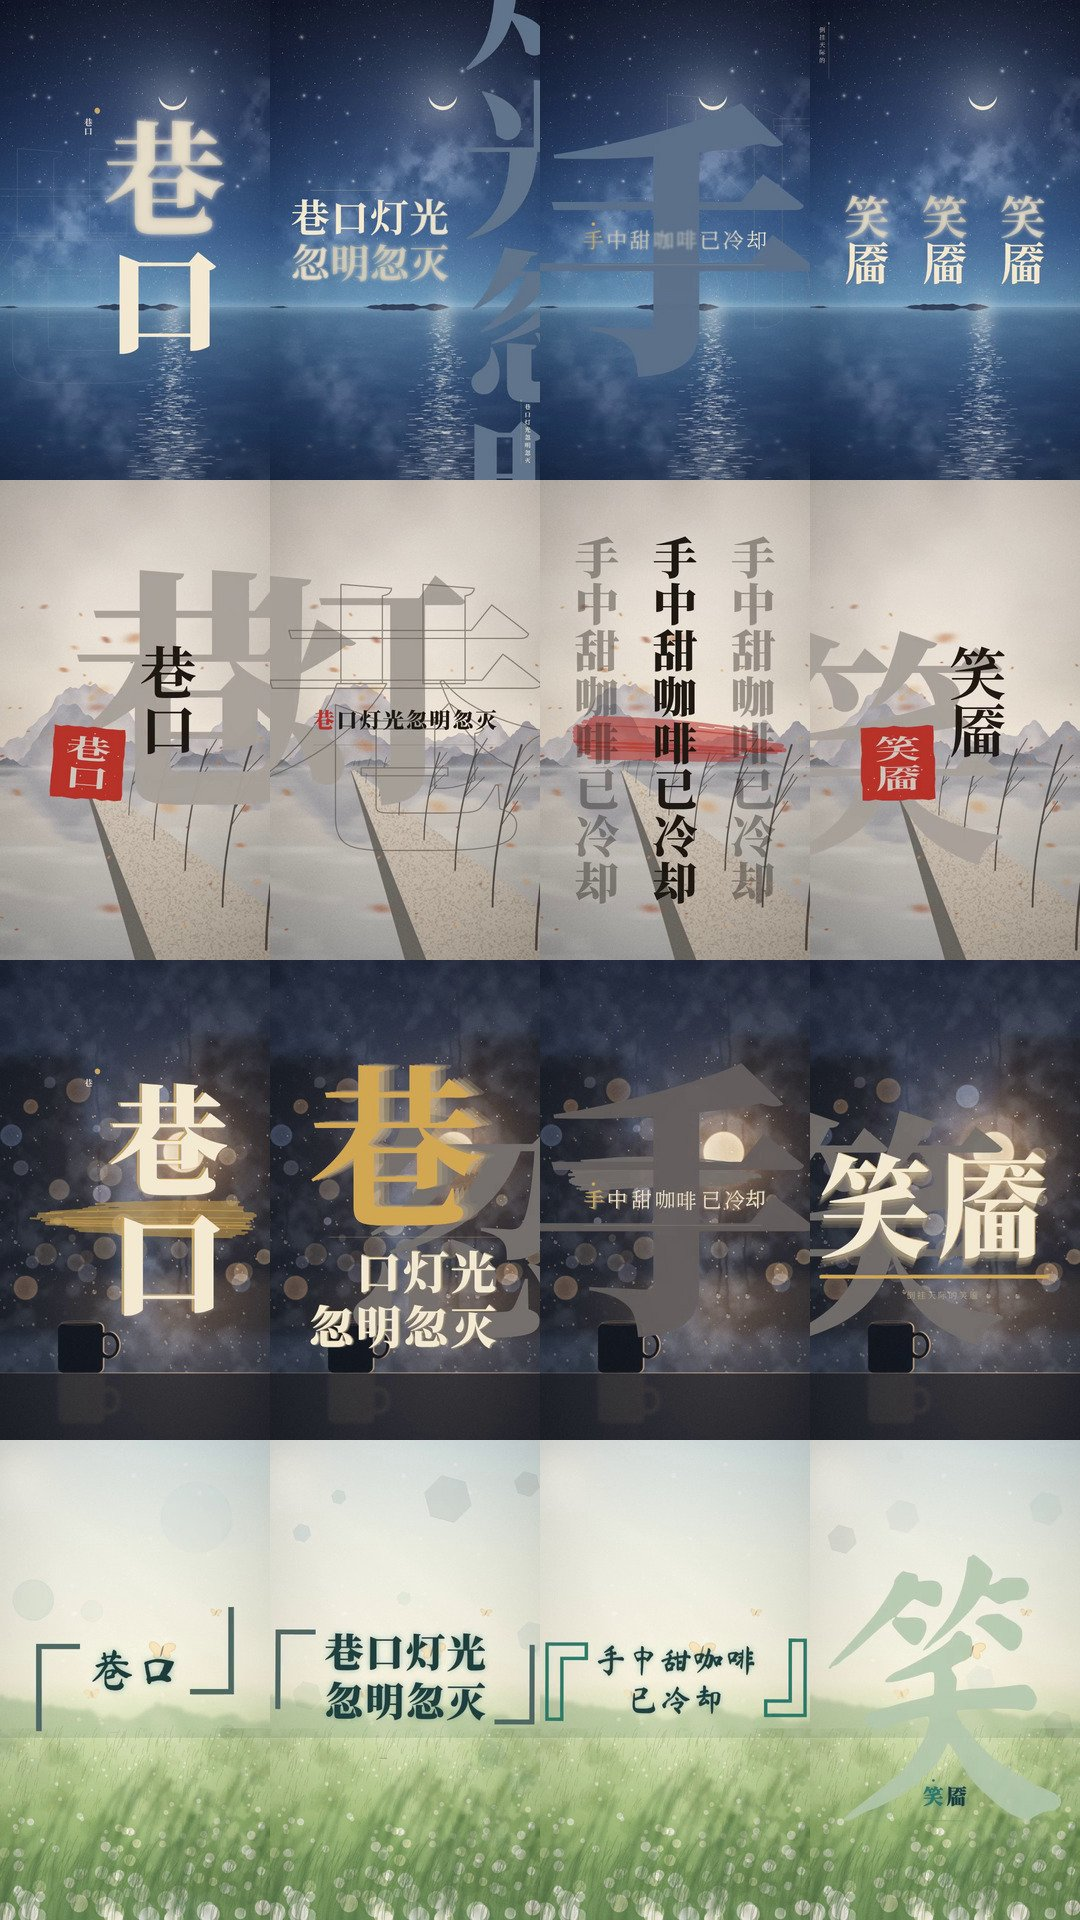
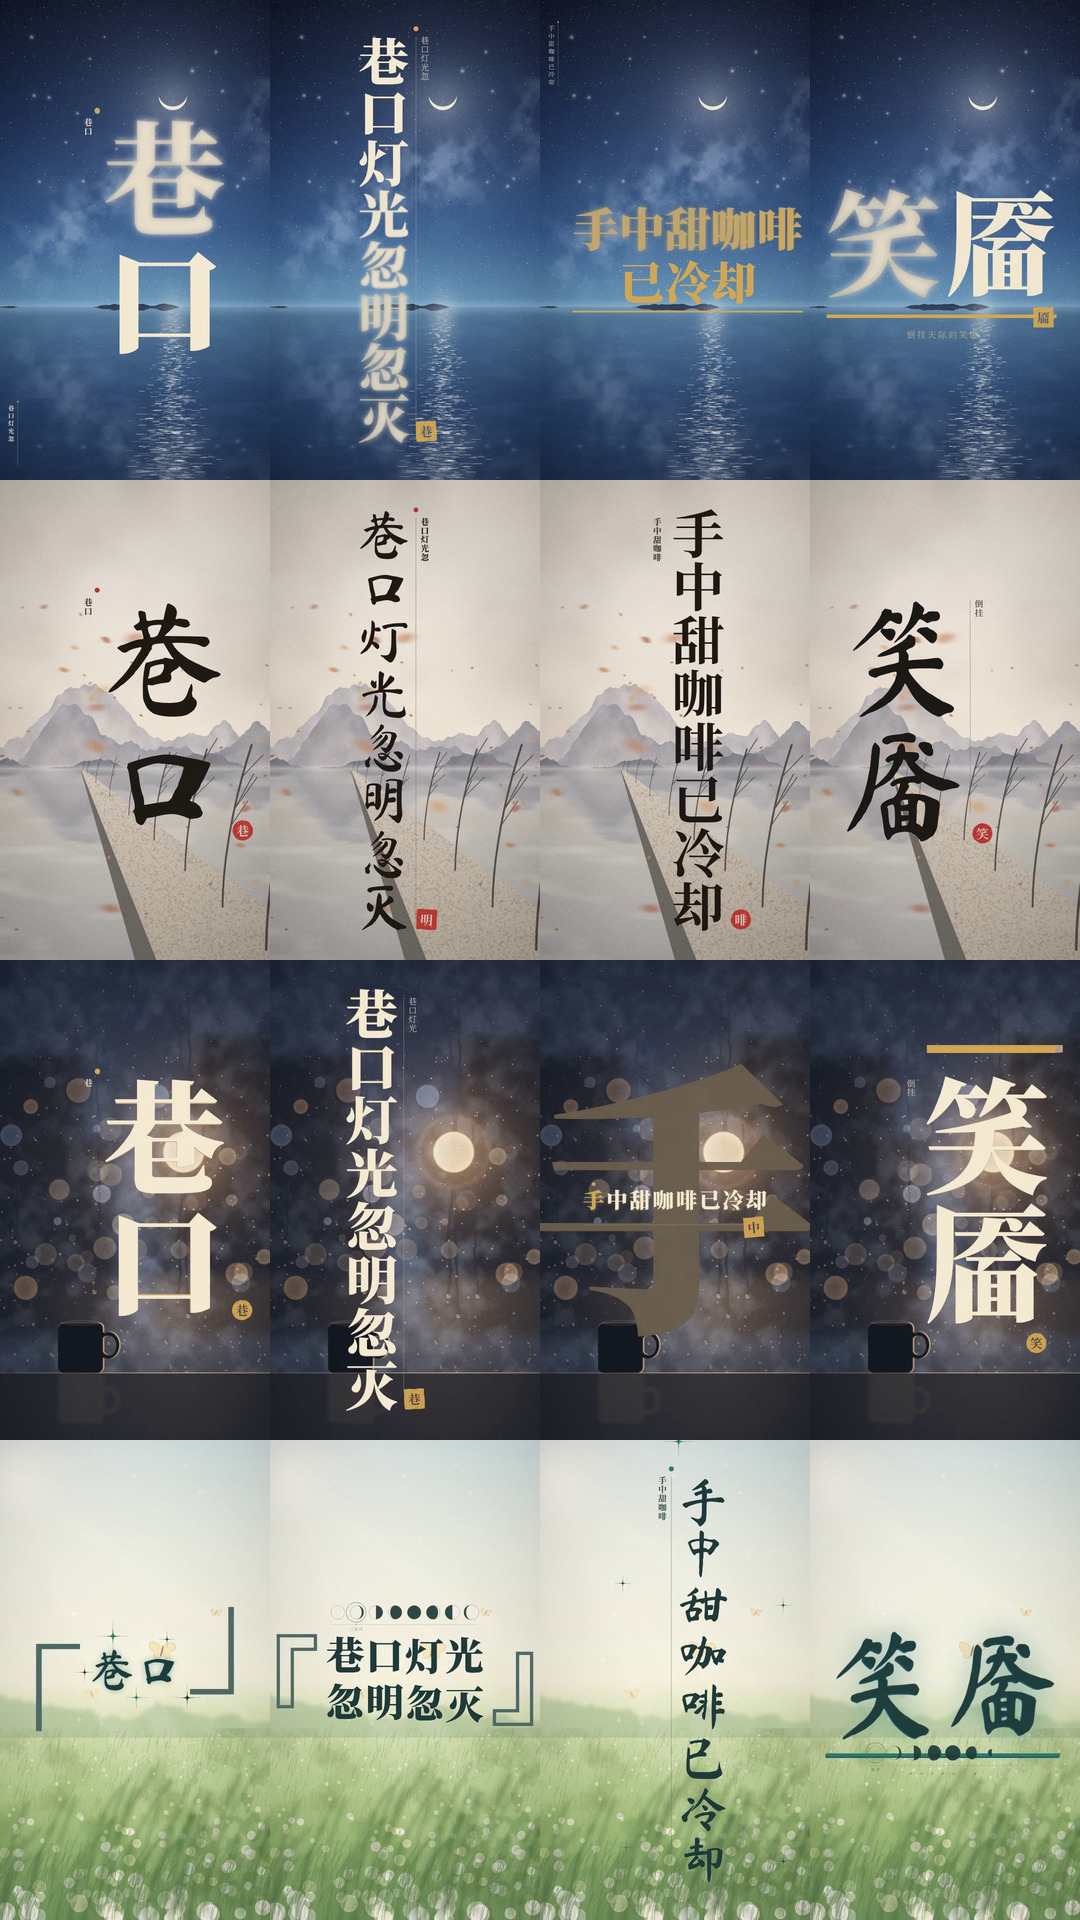
JIZURA: 去掉显得混乱的版式和部件
- 去掉巨字裁切出画、关键字拆行、同一句重复多遍（vcols / zoomRepeat）、
  描边回声 / 多重阴影、挂轴、横穿文字的笔刷、大字水印、hanko
- 叠字国潮只保留「一个关键字放大做淡背景 + 整句」这一种叠字
- 故障强度默认 0；节奏卡点预设降低密度和装饰

Claude-Session: https://claude.ai/code/session_01AB9LkBndKdV4qLpLchswxw

diff --git a/chatcut_studio/jizura.py b/chatcut_studio/jizura.py
@@ -64,47 +64,46 @@ THEMES: dict[str, dict] = {
         "koma": 0,
         "fx": {"chroma": 0.05, "texture": 0.3},
         "allow": {
-            "layout": ["center", "columnsBig", "kanjiFocus", "halfVertical", "vcols", "tyBaseline", "quote",
-                       "tyCropGiant"],
-            "treat": ["none", "softShadow", "emphasisDots", "fadeChars", "echoOutline"],
+            "layout": ["center", "columnsBig", "halfVertical", "tyBaseline", "quote"],
+            "treat": ["none", "softShadow", "emphasisDots", "fadeChars"],
             "enter": ["fadeStagger", "blurStagger", "trackIn", "riseMask", "blur", "glint"],
             "hold": ["still", "drift", "breathe", "zoomSlow", "focusRack"],
             "exit": ["blur", "drift", "blurOutStagger", "dissolve", "trackOutWide", "riseOut"],
-            "decor": ["seal", "verticalStrip", "watermarkKanji"],
+            "decor": ["seal", "verticalStrip"],
             "cam": ["push", "dollyIn", "focusIn", "pullOut"],
             "trans": ["pushSlide", "uncover"],
         },
     },
     "水墨书法": {
-        "desc": "毛笔字竖排、墨迹晕开与笔画书写入场、印章落款，水墨意境",
+        "desc": "毛笔字、墨迹晕开与笔画书写入场、印章落款，水墨意境",
         "palettes": ["cn_ink", "cn_qinglv"],
         "koma": 0,
         "fx": {"chroma": 0.0, "texture": 0.4},
         "allow": {
-            "layout": ["vcols", "kanjiFocus", "columnsBig", "center", "halfVertical", "kakejiku", "hanko"],
+            "layout": ["columnsBig", "center", "halfVertical"],
             "treat": ["none", "softShadow", "fadeChars"],
             "enter": ["inkBleed", "brushReveal", "strokeOrder", "inkDrop", "strokeDraw", "blur", "fadeStagger"],
             "hold": ["still", "drift", "breathe", "zoomSlow"],
             "exit": ["dissolve", "drift", "blurOutStagger", "undraw", "blur"],
-            "decor": ["brushStroke", "seal", "watermarkKanji"],
+            "decor": ["seal"],
             "cam": ["push", "dollyIn", "pullOut", "driftDiag"],
             "trans": ["inkBlob", "pushSlide"],
         },
     },
     "叠字国潮": {
-        "desc": "宋体巨字、残影、描边回声做背景，前景字压在上面；鎏金 / 胭脂 / 朱砂配色，新中式海报感",
+        "desc": "一个关键字放大做淡淡的背景，整句压在上面；鎏金 / 胭脂 / 朱砂配色，新中式海报感",
         "palettes": ["cn_gold", "cn_rouge", "cn_ink"],
         "koma": 12,
         "fx": {"chroma": 0.2, "texture": 0.3},
         "allow": {
-            "layout": ["tyCropGiant", "kanjiFocus", "columnsBig", "tyKeySplit", "zoomRepeat", "center"],
-            "treat": ["echoOutline", "shadowStack", "doubleOutline", "outlineOffset", "longShadow", "none"],
-            "enter": ["zoomOut", "echoIn", "trackIn", "riseMask", "stretch", "slideL", "slideR", "stamp"],
-            "hold": ["still", "drift", "zoomSlow", "echoTrail", "breathe"],
-            "exit": ["cut", "echoOut", "trackOutWide", "zoomThrough", "zoomFar", "blur"],
-            "decor": ["seal", "watermarkKanji", "brushStroke"],
-            "cam": ["push", "pullOut", "dollyIn", "stepZoom", "beatPunch"],
-            "trans": ["pushSlide", "zoomThrough"],
+            "layout": ["kanjiFocus", "columnsBig", "center"],
+            "treat": ["none", "softShadow"],
+            "enter": ["zoomOut", "trackIn", "riseMask", "slideL", "slideR"],
+            "hold": ["still", "drift", "zoomSlow", "breathe"],
+            "exit": ["cut", "trackOutWide", "zoomFar", "blur"],
+            "decor": ["seal"],
+            "cam": ["push", "pullOut", "dollyIn"],
+            "trans": ["pushSlide"],
         },
     },
     "清新诗意": {
@@ -113,12 +112,12 @@ THEMES: dict[str, dict] = {
         "koma": 0,
         "fx": {"chroma": 0.05, "texture": 0.2},
         "allow": {
-            "layout": ["center", "vcols", "halfVertical", "quote", "columnsBig", "kanjiFocus"],
+            "layout": ["center", "halfVertical", "quote", "columnsBig"],
             "treat": ["none", "softShadow", "glow", "fadeChars"],
             "enter": ["blur", "fadeStagger", "blurStagger", "backlight", "glint", "riseMask", "trackIn"],
             "hold": ["still", "drift", "float", "breathe", "glowFlicker"],
             "exit": ["blur", "drift", "blurOutStagger", "dissolve", "hazeOut", "riseOut"],
-            "decor": ["petals", "fireflies", "starField", "moonPhases", "twinkle", "bokeh"],
+            "decor": ["petals", "fireflies", "moonPhases", "twinkle"],
             "cam": ["push", "floatNoise", "focusIn", "driftDiag"],
             "trans": ["irisOpen", "pushSlide", "uncover"],
         },

diff --git a/chatcut_studio/presets.py b/chatcut_studio/presets.py
@@ -66,7 +66,7 @@ PRESETS: dict[str, StyleProfile] = {
         pacing=Pacing(avg_shot_seconds=0.8, cut_on_beat=True, hook_seconds=2,
                       notes="主歌每拍一切，副歌半拍一切；高潮前留一个 1–2 秒的长镜头蓄力"),
         captions=Captions(engine="JIZURA 动态排版", font="得意黑", size="大",
-                          jizura=Jizura(theme="叠字国潮", seed=1, motion=0.85, glitch=0.15, decor=0.4, density=0.7,
+                          jizura=Jizura(theme="叠字国潮", seed=1, motion=0.75, glitch=0.0, decor=0.3, density=0.5,
                                         flash=True)),
         transitions=Transitions(style="硬切为主，重拍处用快速推拉或甩镜", duration_seconds=0.15),
         color_grade=ColorGrade(look="高对比、偏鲜艳", notes="所有素材统一色温"),

diff --git a/chatcut_studio/profile.py b/chatcut_studio/profile.py
@@ -25,7 +25,7 @@ class Jizura(BaseModel):
     palette: str = Field("auto", description="配色：auto 表示由主题按随机种子挑选，或 JIZURA 配色名如 ocean / mono / sunset")
     seed: int = Field(1, description="随机种子：同一个种子结果完全相同，换种子换一种编排")
     motion: float = Field(0.6, ge=0, le=1, description="动作幅度 0–1")
-    glitch: float = Field(0.15, ge=0, le=1, description="故障 / 色偏强度 0–1")
+    glitch: float = Field(0.0, ge=0, le=1, description="故障 / 色偏强度 0–1")
     decor: float = Field(0.3, ge=0, le=1, description="装饰元素多少 0–1")
     density: float = Field(0.5, ge=0, le=1, description="分镜细碎程度 0–1：越大一句歌词切成越多镜头")
     flash: bool = Field(False, description="重拍闪白")

diff --git a/chatcut_studio/README.md b/chatcut_studio/README.md
@@ -53,7 +53,7 @@ python3 -m chatcut_studio.fake_chatcut              # 本地假 ChatCut（http:/
 |---|---|
 | 服务器端渲染 | 无头 Chromium 里逐帧调用 JIZURA 的 `Renderer.frame()` 画透明歌词层，ffmpeg 叠到我们的背景图上、合上音频；或直接出透明 .mov 给 ChatCut。一拍两（每秒 12 张）的主题只渲染不重复的画面，由 ffmpeg 补帧 |
 | 中文分镜 | JIZURA 按日文规则切分，会把中文拆在词中间（「笑｜靥」「咖｜啡」）。改为按词切：连续单字两两成词、「与／和」连接左右、助词语气词向前黏、落单的字向后黏，关键词不拆；多行换行和版式内部拆词也按词来。拿不准的句子可以在歌词里用 `/` 手动断开 |
-| 四套中文主题 | 从部件库挑出白名单：**宋韵留白**（宋体大字、竖排、留白、印章）、**水墨书法**（书法字、墨晕 / 笔顺入场、笔触和印章、挂轴版式）、**叠字国潮**（巨字裁切做背景、描边回声、新中式金色）、**清新诗意**（楷体、「」引号、萤火、月相、花瓣）。去掉了恐怖部件、故障风、霓虹、日文装饰、HUD 和「No.04」这类编号 |
+| 四套中文主题 | 从部件库挑出白名单：**宋韵留白**（宋体大字、竖排、留白、印章）、**水墨书法**（书法字、墨晕 / 笔顺入场、印章）、**叠字国潮**（一个关键字放大做淡背景，整句压在上面，新中式金色）、**清新诗意**（楷体、「」引号、萤火、花瓣）。只保留干净的版式：一屏一句、一个视觉焦点。去掉了恐怖部件、故障风、霓虹、日文装饰、HUD、「No.04」这类编号，以及显得混乱的部件：巨字裁切出画、关键字拆行、同一句重复多遍（vcols / zoomRepeat）、描边回声 / 多重阴影、挂轴、横穿文字的笔刷、大字水印 |
 | 中文审美 | 换掉 JIZURA 偏日系 / 卡通的字体和配色：圆体、波普、手写体统一映射到思源宋体 Heavy、霞鹜文楷、马善政书法；新增 5 套中国色配色（墨与朱砂、夜色鎏金、青绿山水、月白黛蓝、胭脂），每套有浅字、深字两种方案。背景巨字和残影的颜色按背景图平均色来混，和画面同色调，不会出现浑浊的色块 |
 | 跟背景对比 | 渲染前计算每张背景图的亮度，自动挑对比度够的配色；对比度不足 3 的镜头换成同一配色里对比度最高的方案 |
 | 本地字体 | 思源黑体 / 宋体、站酷三款、马善政从 Google Fonts 仓库、霞鹜文楷从 GitHub 发布页下载到 `~/.cache/chatcut-studio/fonts`，渲染不依赖外网 |
